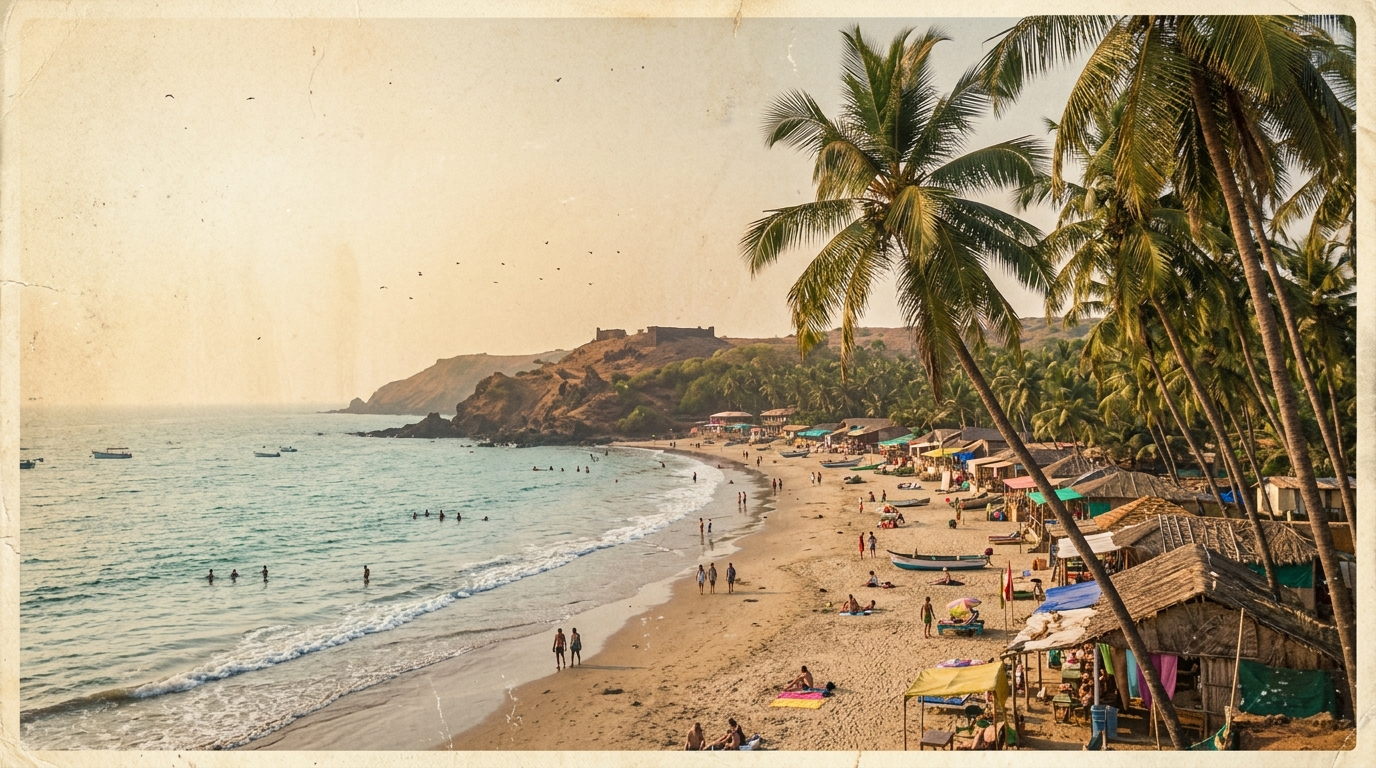
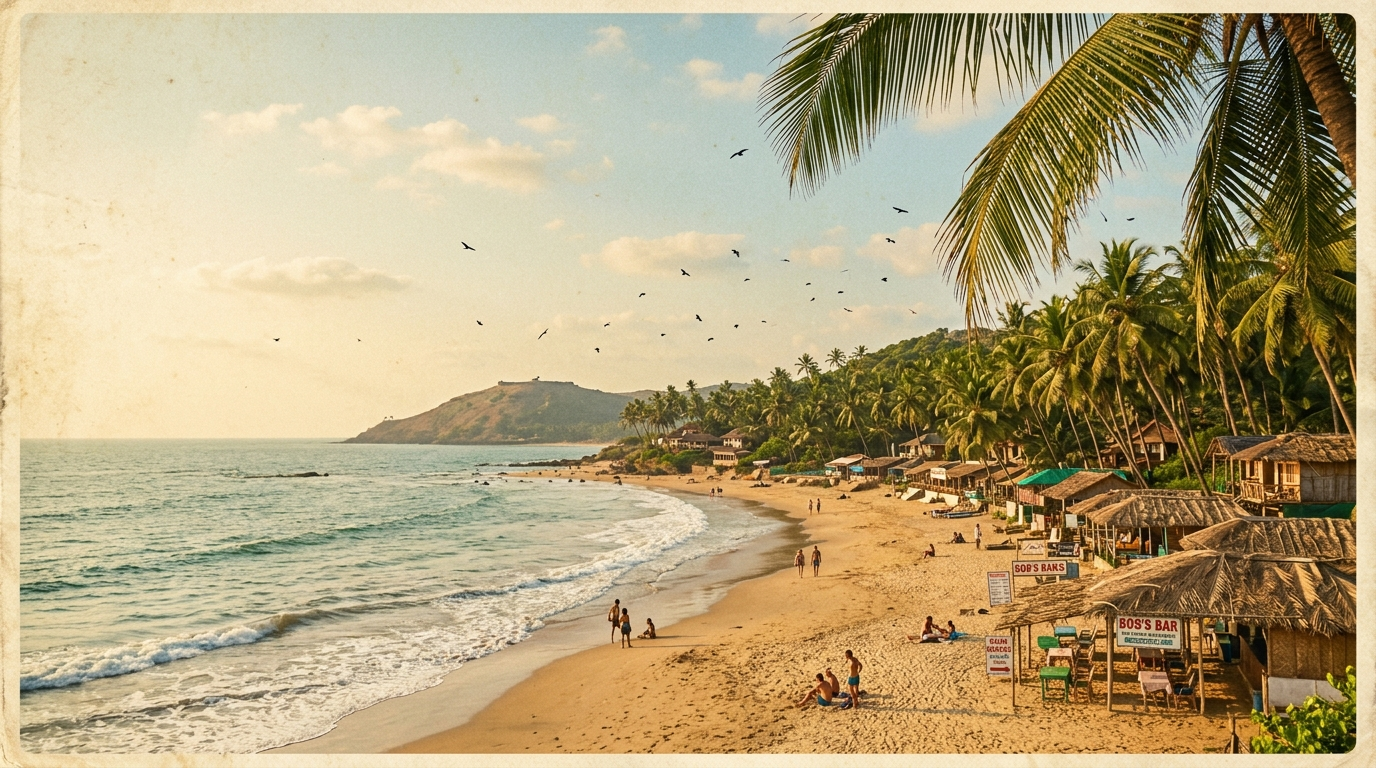
fix(ui): perfect visual alignment matching reference postcard design with exact background and assets

diff --git a/src/app/globals.css b/src/app/globals.css
@@ -40,14 +40,14 @@ body {
   z-index: -5;
   background-image:
     linear-gradient(
-      rgba(245, 237, 226, 0.42),
-      rgba(238, 227, 214, 0.52)
+      rgba(246, 238, 226, 0.40),
+      rgba(238, 226, 212, 0.50)
     ),
-    url("/goa-beach.jpg?v=2");
+    url("/goa-beach.jpg");
   background-size: cover;
   background-position: center right;
   background-repeat: no-repeat;
-  filter: contrast(1.05) brightness(0.98);
+  filter: contrast(1.06) brightness(0.98);
 }
 
 /* Grain texture overlay */
@@ -83,8 +83,8 @@ body {
   left: 0;
   top: 0;
   bottom: 0;
-  width: 122px;
-  padding: 24px 14px;
+  width: 124px;
+  padding: 24px 14px 20px 14px;
   background: #11100e;
   background-image: linear-gradient(180deg, #171512 0%, #0d0c0a 100%);
   color: #e5dac6;
@@ -107,16 +107,16 @@ body {
 }
 
 .brand-palm {
-  width: 42px;
-  height: 42px;
+  width: 44px;
+  height: 44px;
   margin-bottom: 6px;
-  color: #ea6d2d;
-  filter: drop-shadow(0 2px 8px rgba(234, 109, 45, 0.35));
+  color: #ea6826;
+  filter: drop-shadow(0 2px 8px rgba(234, 104, 38, 0.35));
 }
 
 .brand-title {
   font-family: "Inter", sans-serif;
-  font-size: 14.5px;
+  font-size: 15px;
   font-weight: 800;
   letter-spacing: 0.8px;
   line-height: 1.12;
@@ -125,7 +125,7 @@ body {
 
 .brand-goa {
   margin-top: 6px;
-  color: #ea6d2d;
+  color: #ea6826;
   font-family: "Inter", sans-serif;
   font-size: 11px;
   font-weight: 700;
@@ -140,7 +140,7 @@ body {
 }
 
 .tasks-title {
-  color: #ea6d2d;
+  color: #ea6826;
   font-family: "Inter", sans-serif;
   font-size: 10.5px;
   font-weight: 800;
@@ -177,17 +177,17 @@ body {
 }
 
 .task:hover {
-  border-color: #ea6d2d;
-  background: rgba(234, 109, 45, 0.12);
+  border-color: #ea6826;
+  background: rgba(234, 104, 38, 0.12);
   color: #ffffff;
 }
 
 .task.selected {
-  background: #ea6d2d;
+  background: #ea6826;
   color: #12100d;
-  border-color: #ea6d2d;
+  border-color: #ea6826;
   font-weight: 700;
-  box-shadow: 0 0 16px rgba(234, 109, 45, 0.35);
+  box-shadow: 0 0 16px rgba(234, 104, 38, 0.35);
 }
 
 .task-icon {
@@ -217,7 +217,7 @@ body {
 .sidebar-palms-svg {
   width: 100%;
   height: 48px;
-  color: #ea6d2d;
+  color: #ea6826;
   opacity: 0.75;
 }
 
@@ -226,9 +226,9 @@ body {
 ===================================================== */
 .main {
   position: relative;
-  width: calc(100% - 122px);
+  width: calc(100% - 124px);
   height: 100vh;
-  margin-left: 122px;
+  margin-left: 124px;
   overflow: hidden;
 }
 
@@ -318,8 +318,8 @@ body {
   width: 7px;
   height: 7px;
   border-radius: 50%;
-  background: #ea6d2d;
-  box-shadow: 0 0 8px #ea6d2d;
+  background: #ea6826;
+  box-shadow: 0 0 8px #ea6826;
   animation: livePulse 1.8s infinite ease-in-out;
 }
 
@@ -402,50 +402,52 @@ body {
   display: flex;
   align-items: center;
   justify-content: center;
-  gap: 14px;
+  gap: 16px;
 }
 
-.speak-word {
+.word-speak {
   display: inline-flex;
   align-items: center;
   letter-spacing: 1px;
 }
 
-.ai-word {
-  position: relative;
-  display: inline-block;
-  letter-spacing: 1px;
-}
-
-.ai-brush-underline {
-  position: absolute;
-  left: -2px;
-  right: -2px;
-  bottom: -4px;
-  height: 5.5px;
-  background: #ea6d2d;
-  border-radius: 3px;
-  transform: rotate(-1deg);
-  opacity: 0.92;
-}
-
-/* Palm cut-out in letter A of SPEAK */
-.a-palm-cutout {
+.palm-a-wrap {
   position: relative;
   display: inline-flex;
   align-items: center;
   justify-content: center;
 }
 
-.palm-inside-a {
+.palm-cutout-svg {
   position: absolute;
   width: 24px;
   height: 34px;
-  color: #eae1cf;
   top: 50%;
   left: 50%;
   transform: translate(-50%, -46%);
   pointer-events: none;
+}
+
+.word-with {
+  display: inline-block;
+}
+
+.word-ai {
+  position: relative;
+  display: inline-block;
+  letter-spacing: 1px;
+}
+
+.ai-underline-bar {
+  position: absolute;
+  left: -2px;
+  right: -2px;
+  bottom: -4px;
+  height: 5.5px;
+  background: #ea6826;
+  border-radius: 3px;
+  transform: rotate(-1deg);
+  opacity: 0.92;
 }
 
 .hero-subtitle {
@@ -457,7 +459,7 @@ body {
 }
 
 .hero-subtitle .sub-50ms {
-  color: #ea6d2d;
+  color: #ea6826;
   font-weight: 700;
 }
 
@@ -505,21 +507,21 @@ body {
   background: radial-gradient(circle at 35% 30%, #2b2823, #161512 65%, #0c0b09);
   border: 3px solid #1c1a16;
   box-shadow:
-    0 0 0 2px rgba(234, 109, 45, 0.4),
+    0 0 0 2px rgba(234, 104, 38, 0.4),
     0 6px 20px rgba(0, 0, 0, 0.4),
     inset 0 2px 4px rgba(255, 255, 255, 0.1);
   display: flex;
   align-items: center;
   justify-content: center;
-  color: #ea6d2d;
+  color: #ea6826;
   transition: all 200ms ease;
 }
 
 .mic-button:hover .mic-body-disc {
   transform: scale(1.05);
   box-shadow:
-    0 0 0 3px #ea6d2d,
-    0 8px 25px rgba(234, 109, 45, 0.35);
+    0 0 0 3px #ea6826,
+    0 8px 25px rgba(234, 104, 38, 0.35);
 }
 
 .mic-button:active .mic-body-disc {
@@ -529,8 +531,8 @@ body {
 .mic-button.listening .mic-body-disc {
   background: radial-gradient(circle at 35% 30%, #361f13, #1f1008 65%, #100603);
   box-shadow:
-    0 0 0 4px #ea6d2d,
-    0 0 35px rgba(234, 109, 45, 0.6);
+    0 0 0 4px #ea6826,
+    0 0 35px rgba(234, 104, 38, 0.6);
   color: #ff914d;
 }
 
@@ -539,7 +541,7 @@ body {
   position: absolute;
   left: 50%;
   top: 50%;
-  border: 1px solid rgba(234, 109, 45, 0.35);
+  border: 1px solid rgba(234, 104, 38, 0.35);
   border-radius: 50%;
   transform: translate(-50%, -50%);
   pointer-events: none;
@@ -634,7 +636,7 @@ body {
 }
 
 .waveform-container.active span {
-  background: #ea6d2d;
+  background: #ea6826;
   opacity: 0.95;
   animation: waveBar 600ms ease-in-out infinite alternate;
   animation-delay: var(--delay);
@@ -687,7 +689,7 @@ body {
   display: flex;
   align-items: center;
   gap: 8px;
-  color: #ea6d2d;
+  color: #ea6826;
   font-family: "DM Mono", monospace;
   font-size: 13px;
   font-weight: 700;
@@ -721,7 +723,7 @@ body {
 .delhi-highlight-wrap {
   position: relative;
   display: inline-block;
-  color: #ea6d2d;
+  color: #ea6826;
   font-weight: 600;
 }
 
@@ -731,7 +733,7 @@ body {
   bottom: -4px;
   width: 100%;
   height: 6px;
-  color: #ea6d2d;
+  color: #ea6826;
   pointer-events: none;
 }
 
@@ -789,7 +791,7 @@ body {
 
 .latency-metric-col.is-total .metric-lbl,
 .latency-metric-col.is-total .metric-num {
-  color: #ea6d2d;
+  color: #ea6826;
   font-weight: 700;
 }
 
@@ -829,7 +831,7 @@ body {
 .footer-palm {
   width: 18px;
   height: 18px;
-  color: #ea6d2d;
+  color: #ea6826;
 }
 
 /* Wooden Vagator Beach Sign */
@@ -846,7 +848,7 @@ body {
   border: 2px solid #5a432d;
   border-radius: 3px;
   padding: 4px 10px;
-  color: #ea6d2d;
+  color: #ea6826;
   font-family: "Inter", sans-serif;
   font-size: 11px;
   font-weight: 800;
@@ -860,7 +862,7 @@ body {
 
 .sign-board .arrow-sign {
   font-size: 13px;
-  color: #ea6d2d;
+  color: #ea6826;
 }
 
 .sign-post {

diff --git a/src/app/page.tsx b/src/app/page.tsx
@@ -265,18 +265,18 @@ export default function App() {
         <section className="hero">
           <div className="hero-title-wrap">
             <h1 className="hero-title">
-              <span className="speak-word">
-                SPE
-                <span className="a-palm-cutout">
-                  A
+              <span className="word-speak">
+                <span>SPE</span>
+                <span className="palm-a-wrap">
+                  <span>A</span>
                   <PalmInsideA />
                 </span>
-                K
+                <span>K</span>
               </span>
-              <span>WITH</span>
-              <span className="ai-word">
-                AI
-                <div className="ai-brush-underline" />
+              <span className="word-with">WITH</span>
+              <span className="word-ai">
+                <span>AI</span>
+                <div className="ai-underline-bar" />
               </span>
             </h1>
           </div>
@@ -512,13 +512,13 @@ function PalmIcon({ className }: { className?: string }) {
 
 function PalmInsideA() {
   return (
-    <svg viewBox="0 0 40 50" className="palm-inside-a" fill="currentColor">
-      <path d="M20 48 C20.5 35 21 24 20 12" stroke="currentColor" strokeWidth="2.5" fill="none" />
-      <path d="M20 13 C14 11 8 13 4 9 C10 8 16 9 20 12" />
-      <path d="M20 12 C17 6 17 2 19 0 C22 4 22 8 20 12" />
-      <path d="M20 13 C25 7 30 5 35 6 C32 10 27 12 20 13" />
-      <path d="M20 13 C26 13 31 15 35 19 C29 19 24 17 20 15" />
-      <path d="M20 13 C14 8 9 6 5 8 C8 12 13 14 20 15" />
+    <svg viewBox="0 0 40 50" className="palm-cutout-svg" fill="currentColor">
+      <path d="M20 48 C20.5 35 21 24 20 12" stroke="#f6eee1" strokeWidth="2.5" fill="none" />
+      <path d="M20 13 C14 11 8 13 4 9 C10 8 16 9 20 12" fill="#f6eee1" />
+      <path d="M20 12 C17 6 17 2 19 0 C22 4 22 8 20 12" fill="#f6eee1" />
+      <path d="M20 13 C25 7 30 5 35 6 C32 10 27 12 20 13" fill="#f6eee1" />
+      <path d="M20 13 C26 13 31 15 35 19 C29 19 24 17 20 15" fill="#f6eee1" />
+      <path d="M20 13 C14 8 9 6 5 8 C8 12 13 14 20 15" fill="#f6eee1" />
     </svg>
   );
 }
